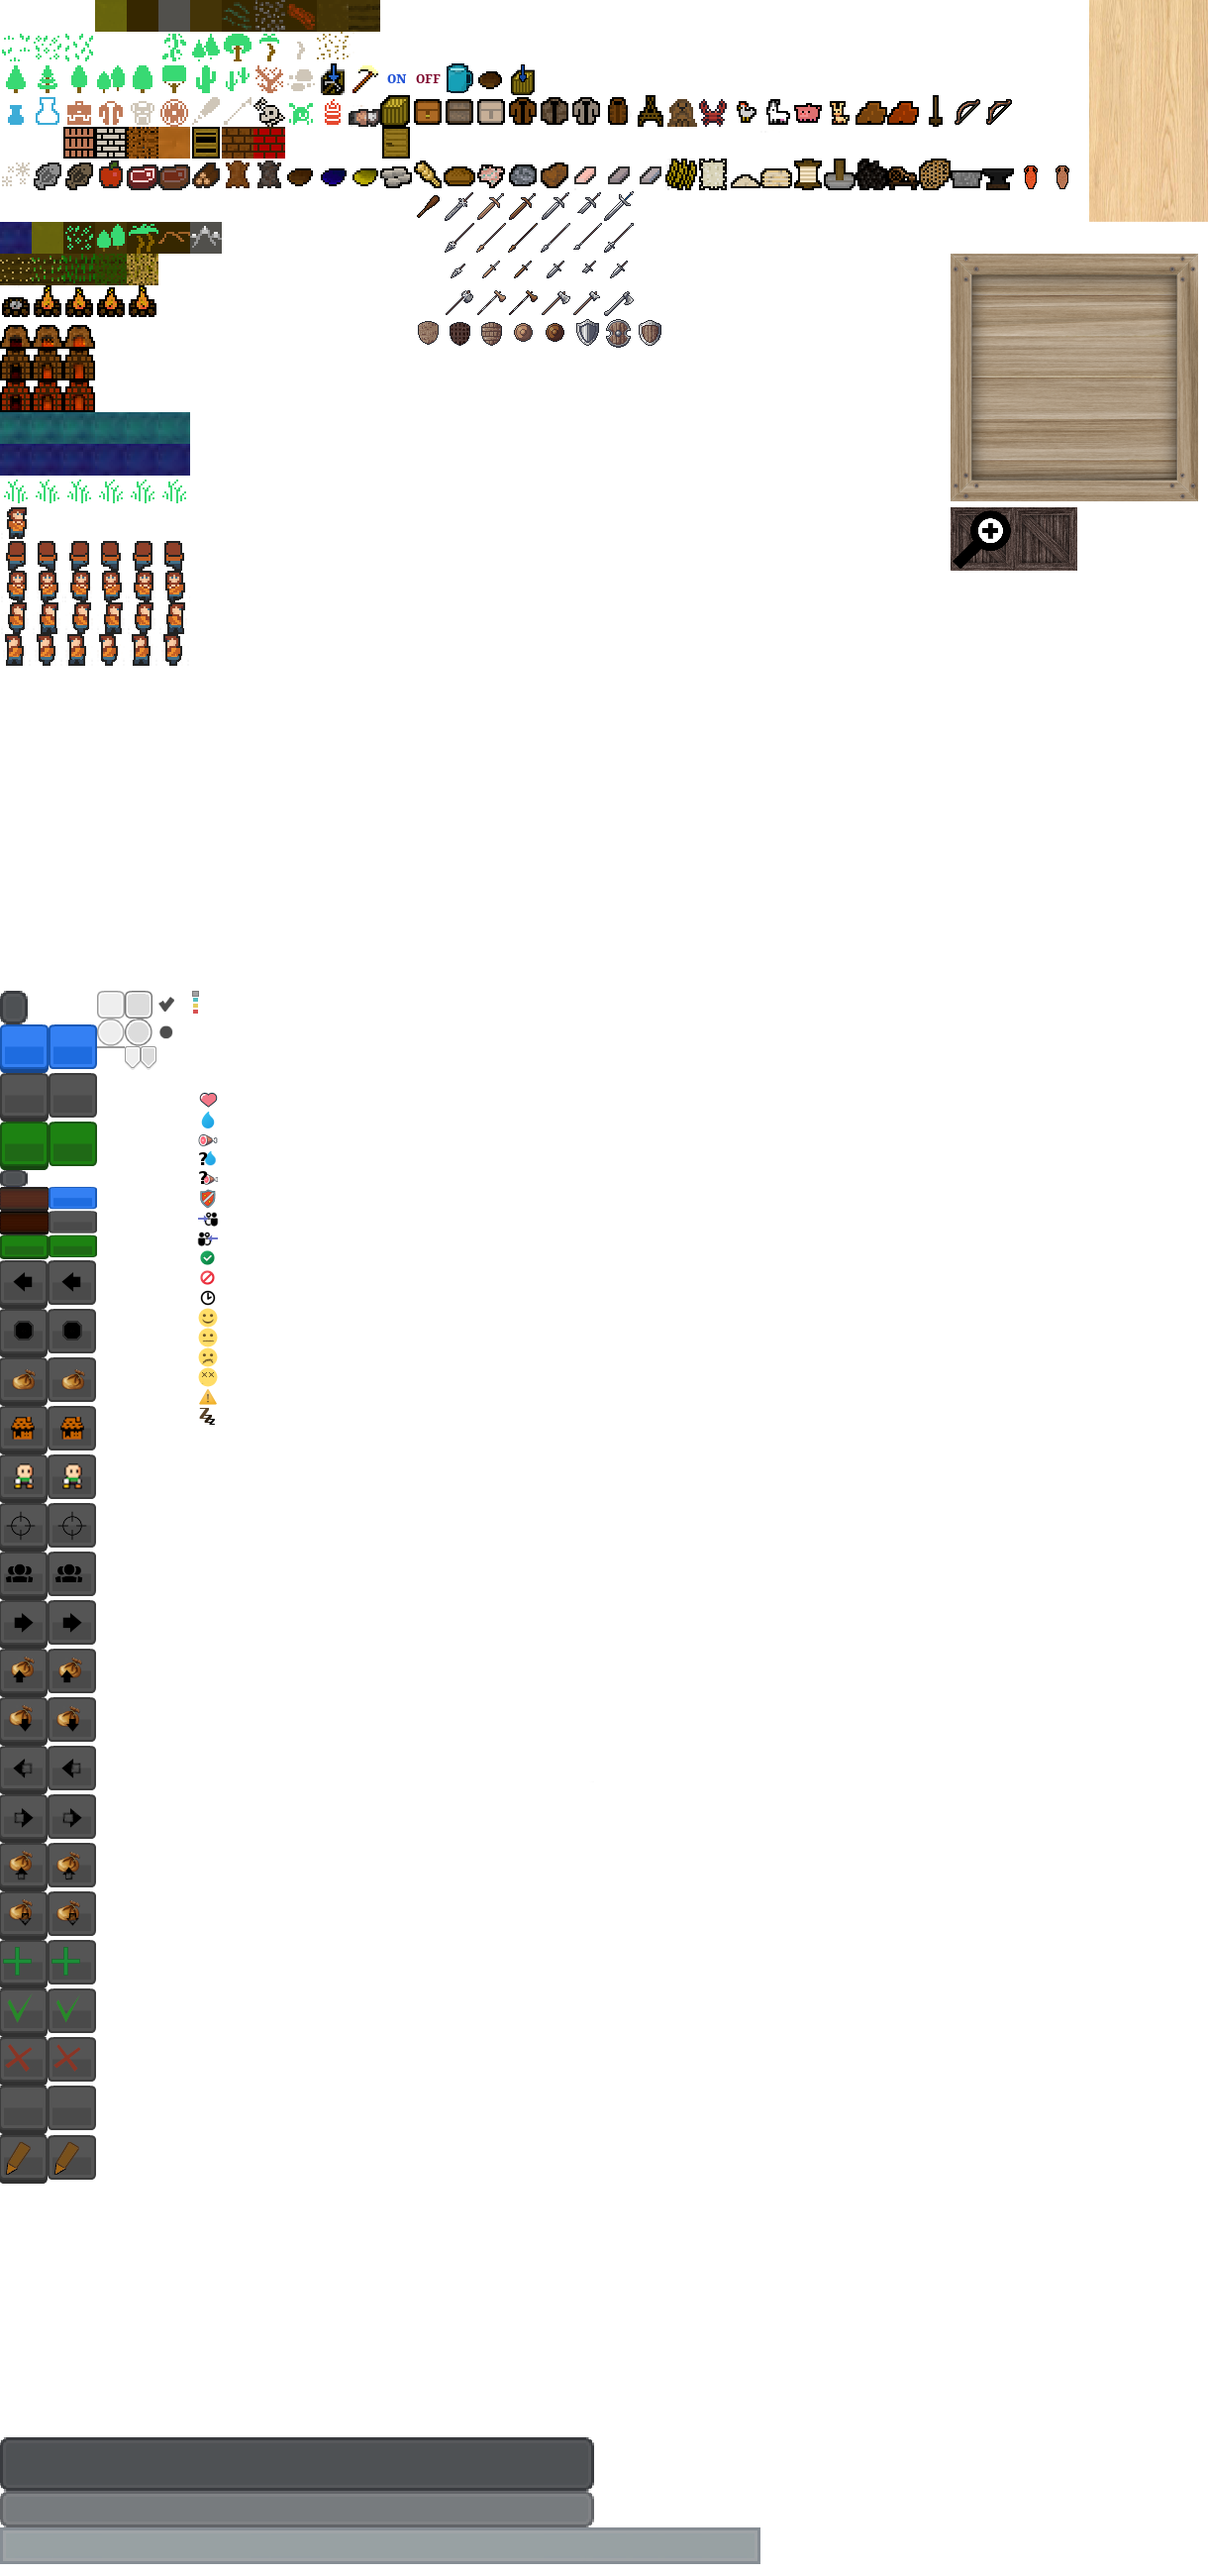
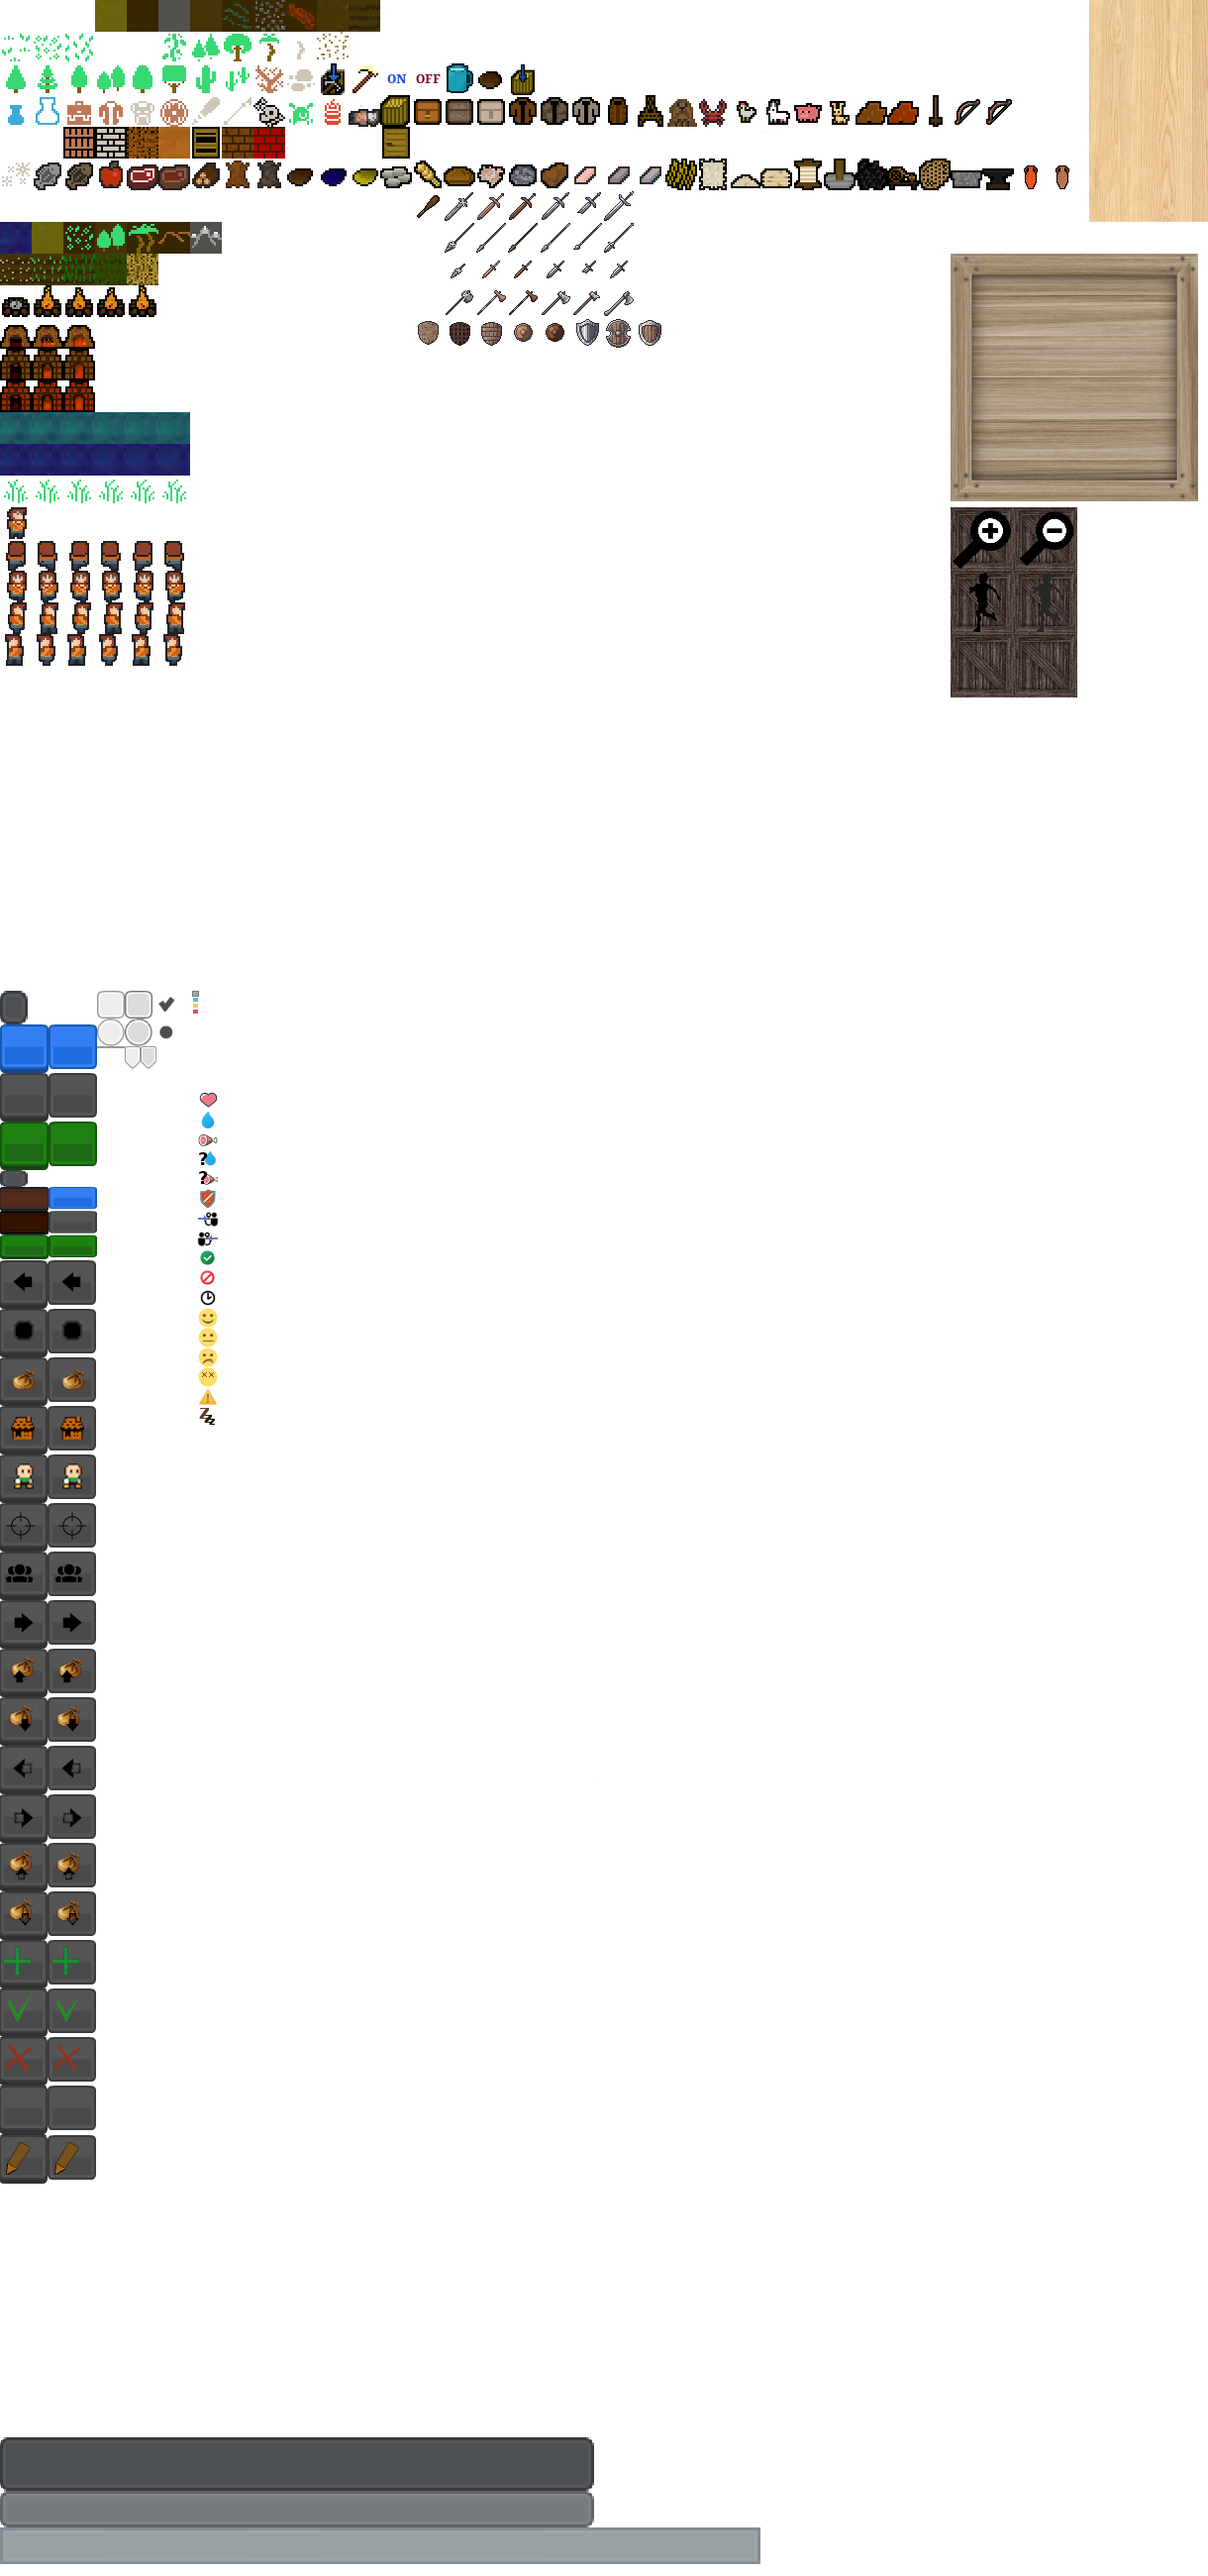
add running

Changed region(s): [[0.7787, 0.1869, 0.9033, 0.2804]]

diff --git a/src/engine/zone/mod.rs b/src/engine/zone/mod.rs
@@ -11,6 +11,8 @@ pub mod state;
 pub mod ui;
 
 const DEFAULT_PLAYER_VELOCITY_DIVIDER: f32 = 2.5;
+const DEFAULT_PLAYER_VELOCITY_LIMIT: f32 = 2.0;
+const RUNNING_PLAYER_VELOCITY_LIMIT: f32 = 5.0;
 const LEFT_PANEL_WIDTH: i32 = 250;
 
 pub struct ZoneEngine {
@@ -23,6 +25,7 @@ pub struct ZoneEngine {
     pub disable_all_user_input_until: f64,
     pub disable_all_user_input: bool,
     pub user_inputs: Vec<UserInput>,
+    pub running_mode: bool,
 }
 
 impl ZoneEngine {
@@ -37,6 +40,7 @@ impl ZoneEngine {
             disable_all_user_input_until: get_time(),
             disable_all_user_input: false,
             user_inputs: vec![],
+            running_mode: false,
         }
     }
 
@@ -77,14 +81,22 @@ impl ZoneEngine {
                         ZoomMode::Large => ZoomMode::Large,
                     }
                 }
+                UserInput::SwitchRunningMode => self.running_mode = !self.running_mode,
+                UserInput::InRunningMode => self.running_mode = true,
+                UserInput::InWalkingMode => self.running_mode = false,
             }
         }
 
         // Update player velocity and limit its maximum speed
+        let player_velocity_limit = if self.running_mode {
+            RUNNING_PLAYER_VELOCITY_LIMIT
+        } else {
+            DEFAULT_PLAYER_VELOCITY_LIMIT
+        };
         self.state.player_display.velocity += player_acceleration;
-        if self.state.player_display.velocity.length() > 2. {
+        if self.state.player_display.velocity.length() > player_velocity_limit {
             self.state.player_display.velocity =
-                self.state.player_display.velocity.normalize() * 2.;
+                self.state.player_display.velocity.normalize() * player_velocity_limit;
         }
 
         // Update player position according to its velocity
@@ -92,13 +104,13 @@ impl ZoneEngine {
 
         // Update player running animation
         if self.state.player_display.velocity.length() > 0.05 {
-            player_running = if player_acceleration.y < -0.05 {
+            player_running = if self.state.player_display.velocity.y < -0.05 {
                 Some(PlayerRunning::Top)
-            } else if player_acceleration.y > 0.05 {
+            } else if self.state.player_display.velocity.y > 0.05 {
                 Some(PlayerRunning::Down)
-            } else if player_acceleration.x > 0.05 {
+            } else if self.state.player_display.velocity.x > 0.05 {
                 Some(PlayerRunning::Right)
-            } else if player_acceleration.x < -0.05 {
+            } else if self.state.player_display.velocity.x < -0.05 {
                 Some(PlayerRunning::Left)
             } else {
                 None
@@ -128,6 +140,12 @@ impl ZoneEngine {
         if is_key_down(KeyCode::Right) {
             self.user_inputs
                 .push(UserInput::MovePlayerBy(Vec2::new(1., 0.)));
+        }
+        if is_key_down(KeyCode::LeftShift) || is_key_down(KeyCode::RightShift) {
+            self.user_inputs.push(UserInput::InRunningMode);
+        }
+        if is_key_released(KeyCode::LeftShift) || is_key_released(KeyCode::RightShift) {
+            self.user_inputs.push(UserInput::InWalkingMode);
         }
 
         // Keyboard inputs with repetition limitation
@@ -181,13 +199,23 @@ impl ZoneEngine {
     }
 
     pub fn draw_buttons(&mut self) {
-        if gui::button::draw_zoom_button(&self.graphics) {
+        let zoom_in = self.zoom_mode == ZoomMode::Double;
+        if gui::button::draw_zoom_button(&self.graphics, zoom_in) {
             if util::mouse_clicked() {
                 match self.zoom_mode {
                     ZoomMode::Normal => self.user_inputs.push(UserInput::ZoomIn),
                     ZoomMode::Large => self.user_inputs.push(UserInput::ZoomIn),
                     ZoomMode::Double => self.user_inputs.push(UserInput::ZoomOut),
                 }
+                self.disable_all_user_input_until = get_time() + 0.25;
+            }
+
+            self.disable_all_user_input = true;
+        }
+
+        if gui::button::draw_run_button(&self.graphics, self.running_mode) {
+            if util::mouse_clicked() {
+                self.user_inputs.push(UserInput::SwitchRunningMode);
                 self.disable_all_user_input_until = get_time() + 0.25;
             }
 
@@ -237,8 +265,12 @@ pub enum UserInput {
     MovePlayerBy(Vec2),
     ZoomIn,
     ZoomOut,
+    SwitchRunningMode,
+    InRunningMode,
+    InWalkingMode,
 }
 
+#[derive(PartialEq)]
 pub enum ZoomMode {
     Normal,
     Double,

diff --git a/src/gui/button.rs b/src/gui/button.rs
@@ -6,23 +6,71 @@ const ZOOM_BUTTON_Y: f32 = 512.;
 const ZOOM_BUTTON_WIDTH: f32 = 64.;
 const ZOOM_BUTTON_HEIGHT: f32 = 64.;
 
-pub fn draw_zoom_button(graphics: &graphics::Graphics) -> bool {
+const RUN_BUTTON_X: f32 = 960.;
+const RUN_BUTTON_Y: f32 = 576.;
+const RUN_BUTTON_WIDTH: f32 = 64.;
+const RUN_BUTTON_HEIGHT: f32 = 64.;
+
+pub fn draw_zoom_button(graphics: &graphics::Graphics, active: bool) -> bool {
     let draw_start_x = screen_width() - ZOOM_BUTTON_WIDTH as f32;
     let draw_end_x = draw_start_x + ZOOM_BUTTON_WIDTH;
     let draw_start_y = 0.;
     let draw_end_y = draw_start_y + ZOOM_BUTTON_HEIGHT;
 
+    let source_x = if active {
+        ZOOM_BUTTON_X + ZOOM_BUTTON_WIDTH
+    } else {
+        ZOOM_BUTTON_X
+    };
+    let source_y = ZOOM_BUTTON_Y;
+
     draw_texture_ex(
         graphics.tileset_texture,
         draw_start_x,
-        0.,
+        draw_start_y,
         WHITE,
         DrawTextureParams {
             source: Some(Rect::new(
-                ZOOM_BUTTON_X,
-                ZOOM_BUTTON_Y,
+                source_x,
+                source_y,
                 ZOOM_BUTTON_WIDTH,
                 ZOOM_BUTTON_HEIGHT,
+            )),
+            ..Default::default()
+        },
+    );
+
+    let (mouse_x, mouse_y) = mouse_position();
+    mouse_x >= draw_start_x
+        && mouse_x <= draw_end_x
+        && mouse_y >= draw_start_y
+        && mouse_y <= draw_end_y
+}
+
+pub fn draw_run_button(graphics: &graphics::Graphics, active: bool) -> bool {
+    let draw_start_x = screen_width() - RUN_BUTTON_WIDTH as f32;
+    let draw_end_x = draw_start_x + RUN_BUTTON_WIDTH;
+    let draw_start_y = ZOOM_BUTTON_HEIGHT;
+    let draw_end_y = draw_start_y + RUN_BUTTON_HEIGHT;
+
+    let source_x = if active {
+        RUN_BUTTON_X + RUN_BUTTON_WIDTH
+    } else {
+        RUN_BUTTON_X
+    };
+    let source_y = RUN_BUTTON_Y;
+
+    draw_texture_ex(
+        graphics.tileset_texture,
+        draw_start_x,
+        draw_start_y,
+        WHITE,
+        DrawTextureParams {
+            source: Some(Rect::new(
+                source_x,
+                source_y,
+                RUN_BUTTON_WIDTH,
+                RUN_BUTTON_HEIGHT,
             )),
             ..Default::default()
         },
